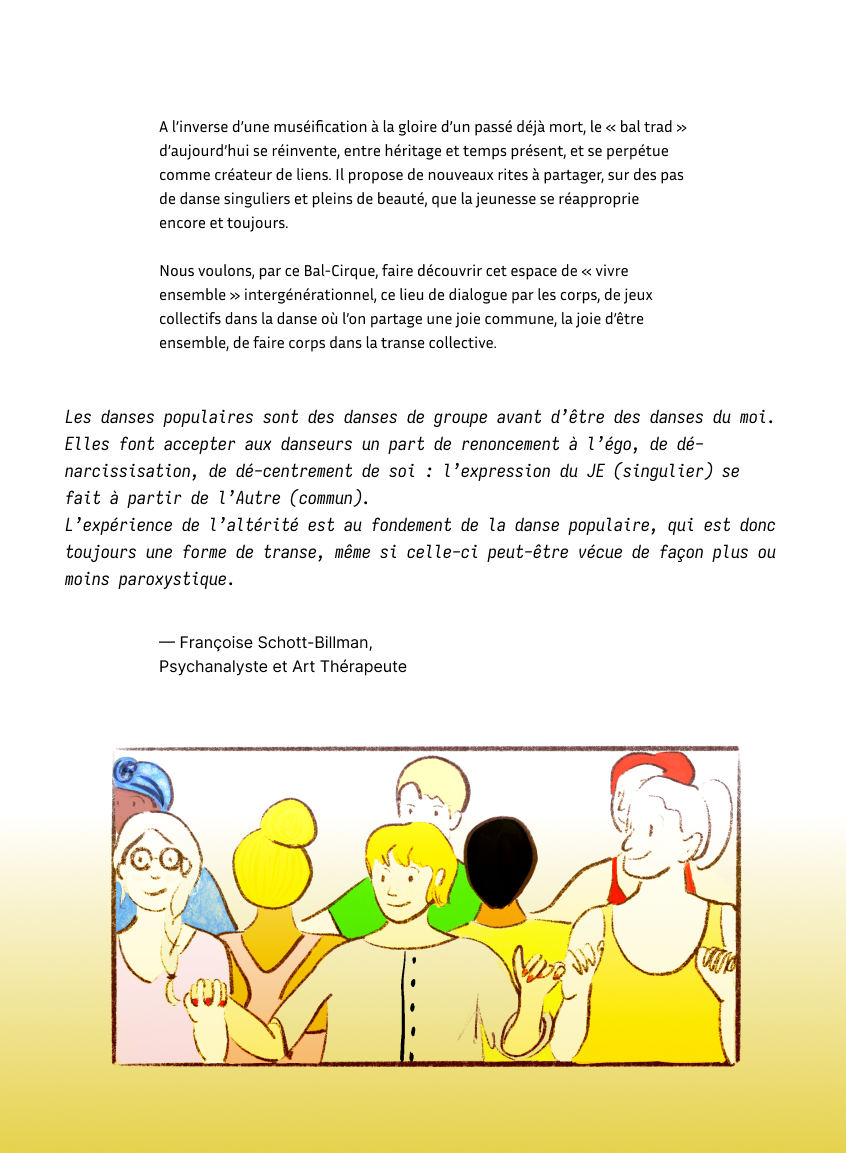
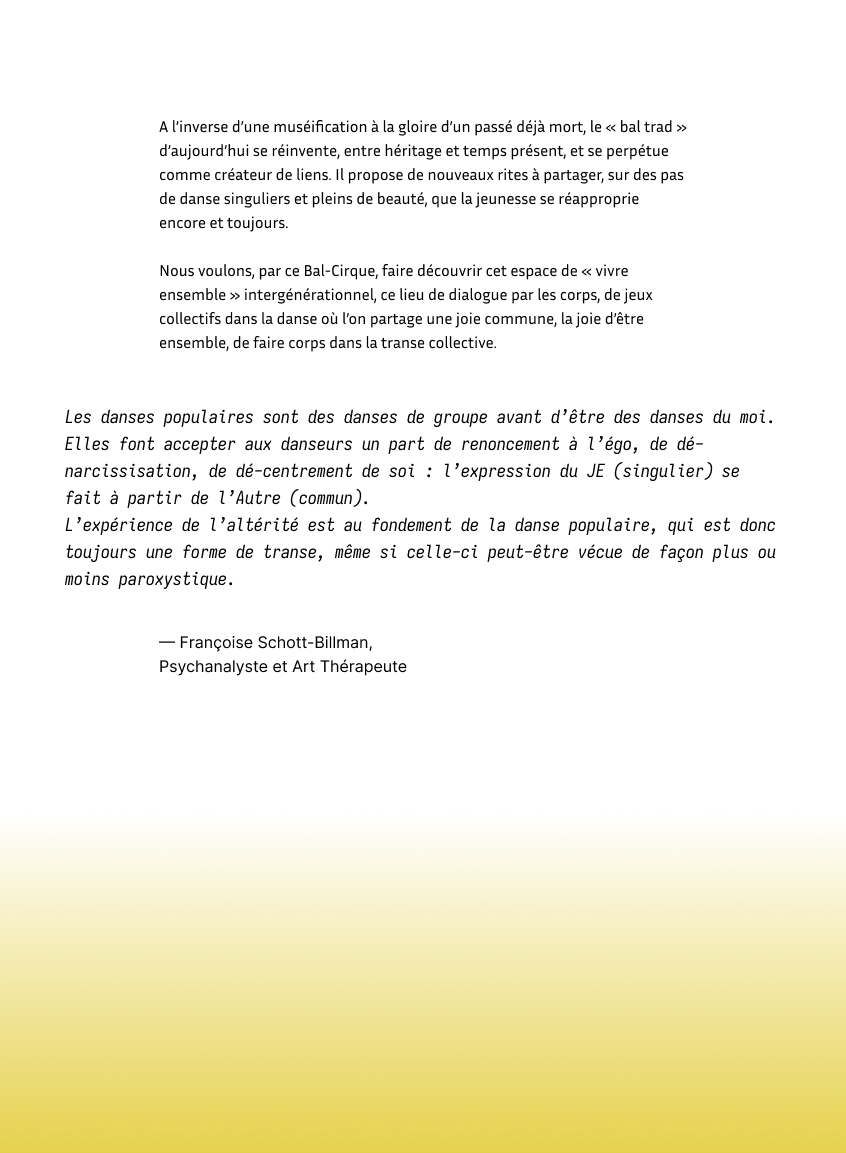
Update page 4: new layout + 3-frame drawing animation (Im1→Im2→Im3)

Changed region(s): [[0.1229, 0.6245, 0.8913, 0.9367]]

diff --git a/index.html b/index.html
@@ -361,8 +361,8 @@
     updateDots();
 
     // ─── Page 4 drawing animation ────────────────────────────────────
-    // Drawing bounding box as fractions of 4.png (846×1153)
-    const DRAW_FRAC = { left: 0.053, top: 0.638, width: 0.893, height: 0.338 };
+    // Drawing bounding box as fractions of 4.png (846×1153) — empty yellow area at bottom
+    const DRAW_FRAC = { left: 0.033, top: 0.624, width: 0.934, height: 0.324 };
 
     const page4div = pageEls[3];
     const page4img = page4div.querySelector('img');
@@ -372,8 +372,9 @@
     page4div.appendChild(drawOverlay);
 
     const drawFrameEls = [
-      'export pages/Dessin-ronde-2.png',
-      'export pages/Dessin-ronde-3.png'
+      'export pages/Im1.png',
+      'export pages/Im2.png',
+      'export pages/Im3.png'
     ].map(src => {
       const f = document.createElement('img');
       f.src       = src;
